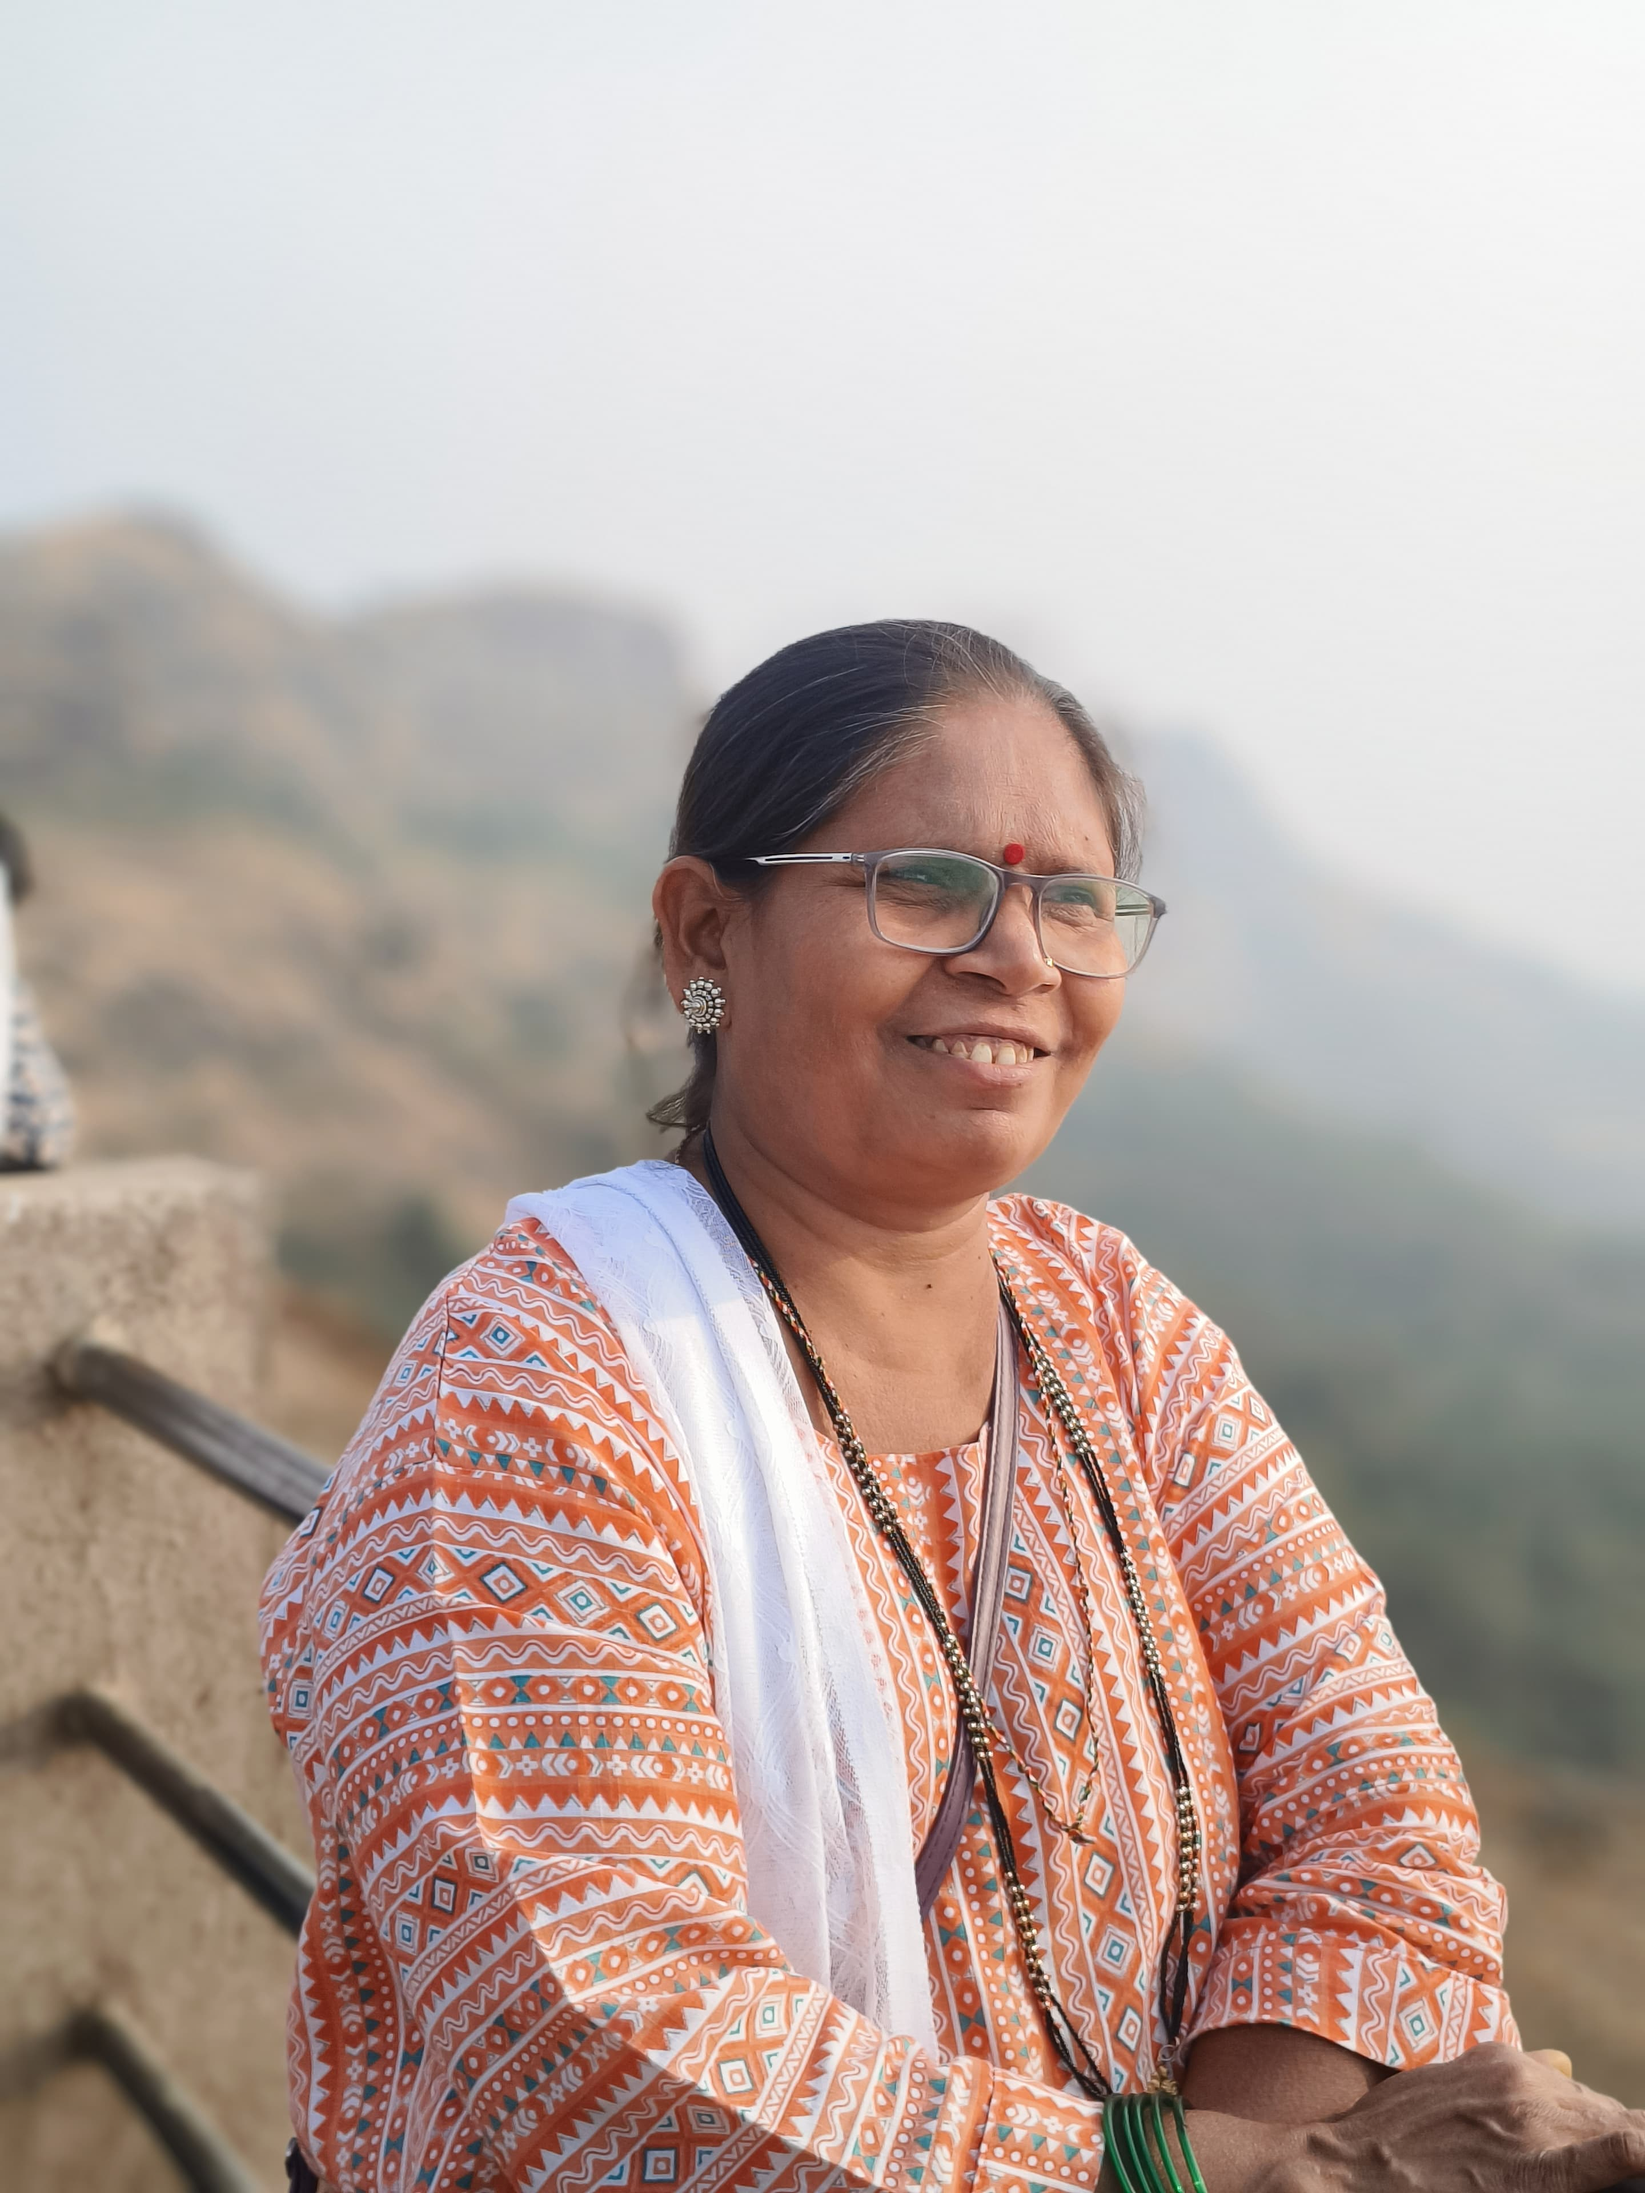
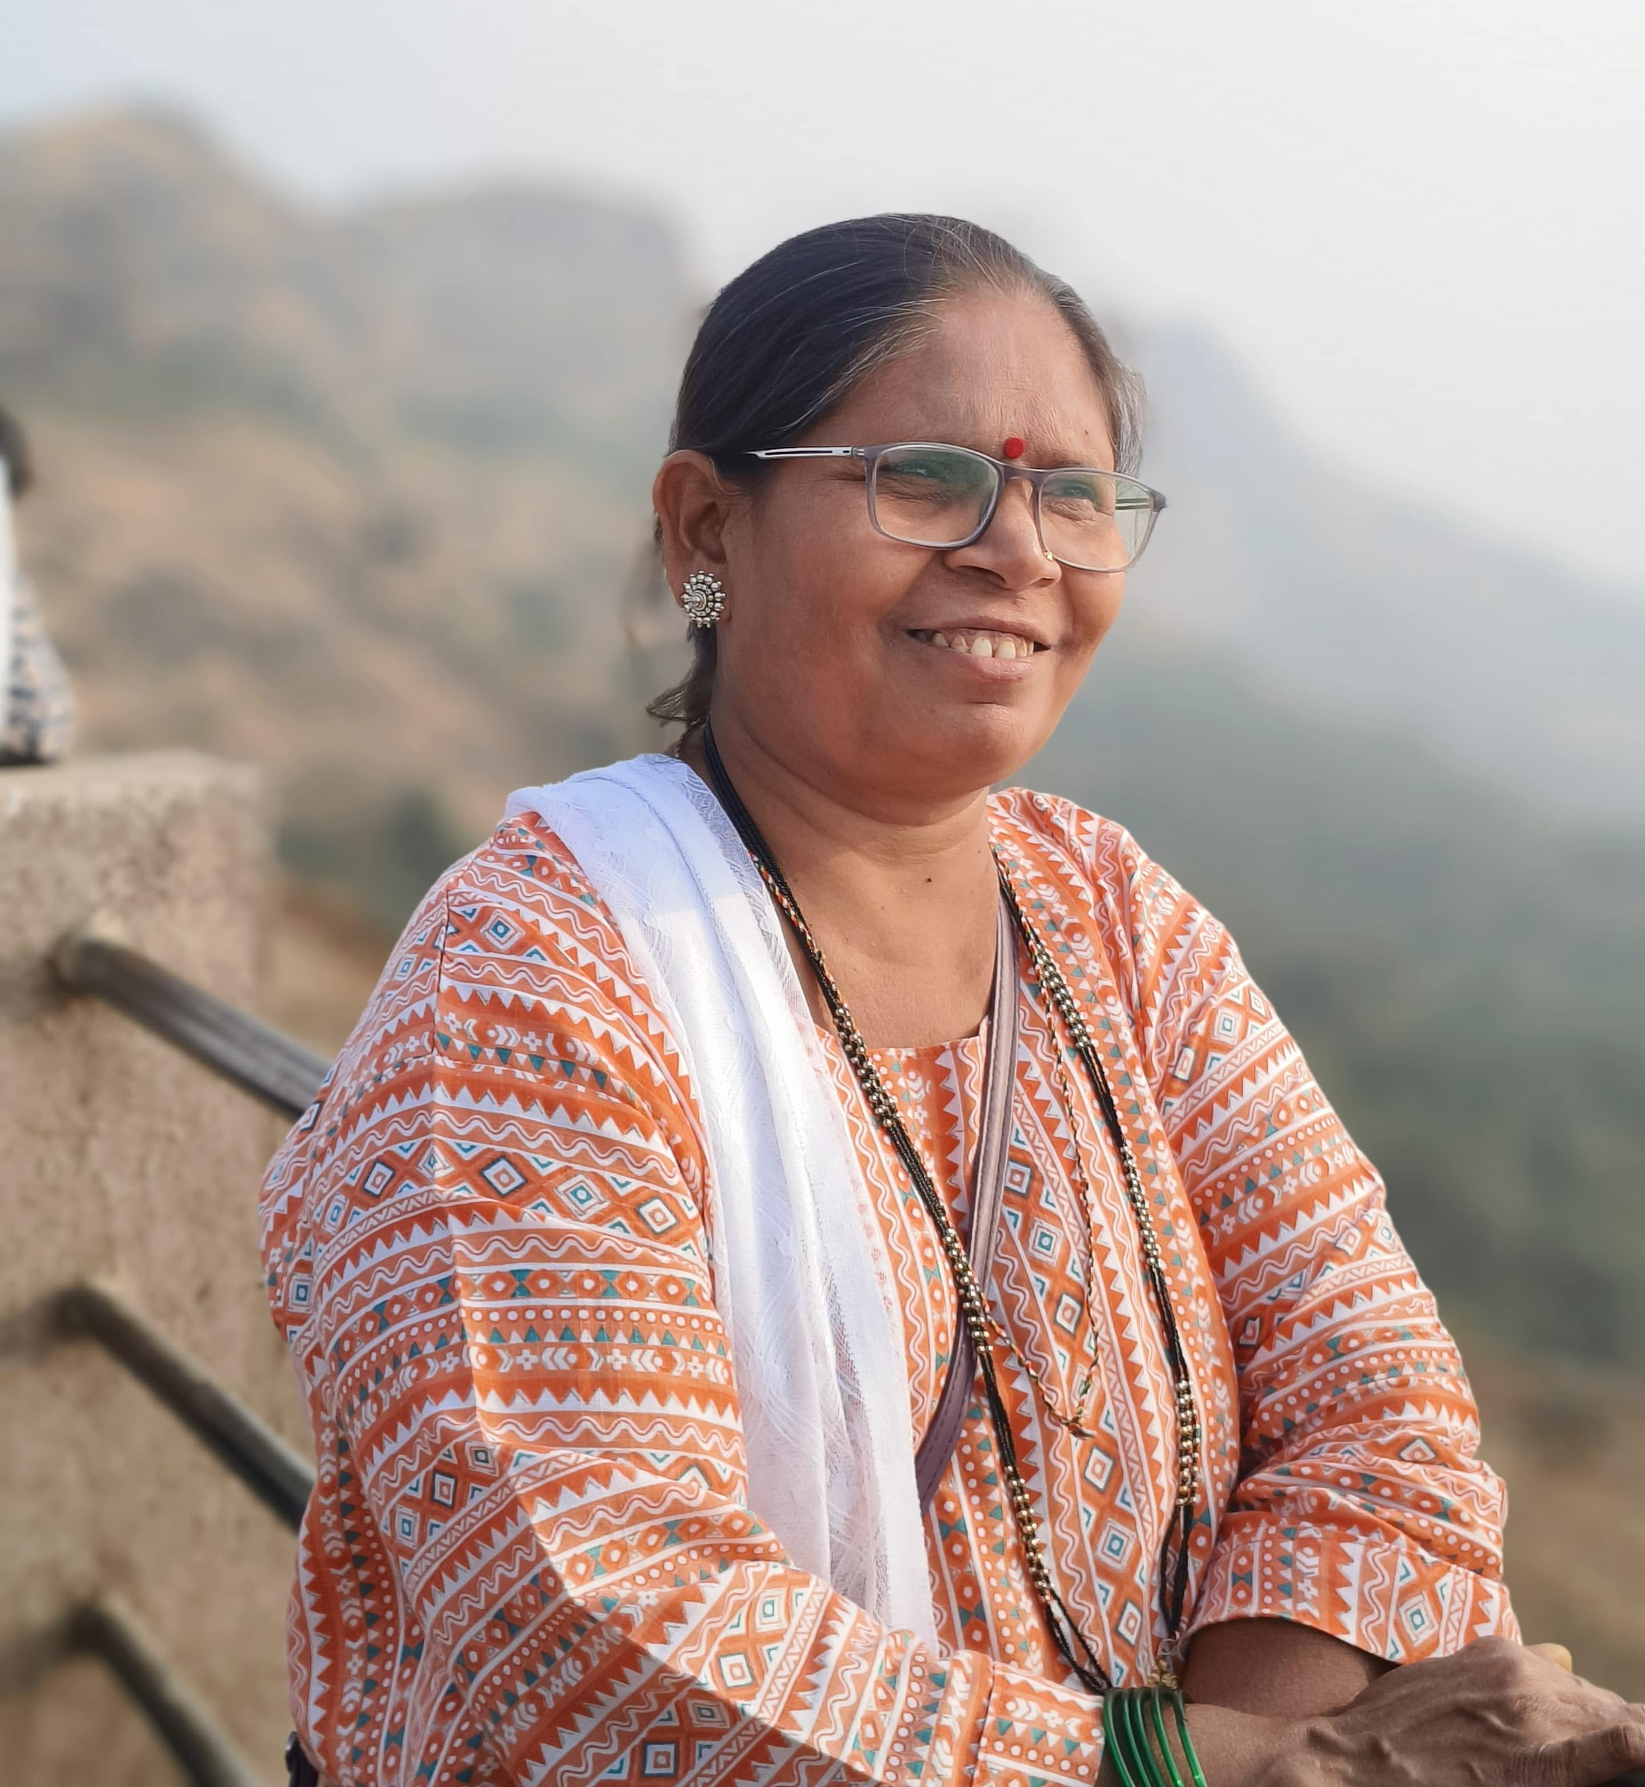
Fix : Co-Founder Image

diff --git a/src/app/founders/page.tsx b/src/app/founders/page.tsx
@@ -40,7 +40,7 @@ const founders: Founder[] = [
     id: 2,
     name: "Kalpana K. Pagare",
     role: "Co-Founder",
-    image:  "/images/founders/kalpana-maam2.png",
+    image:  "/images/founders/kalpana-maam.jpg",
     bio: "Kalpana Pagare, Co-founder of Paarsh Edu, leads with vision and dedication, creating innovative learning spaces and inspiring students to realize their true potential and succeed.",
     social: {
       instagram: "https://instagram.com/tushar",
